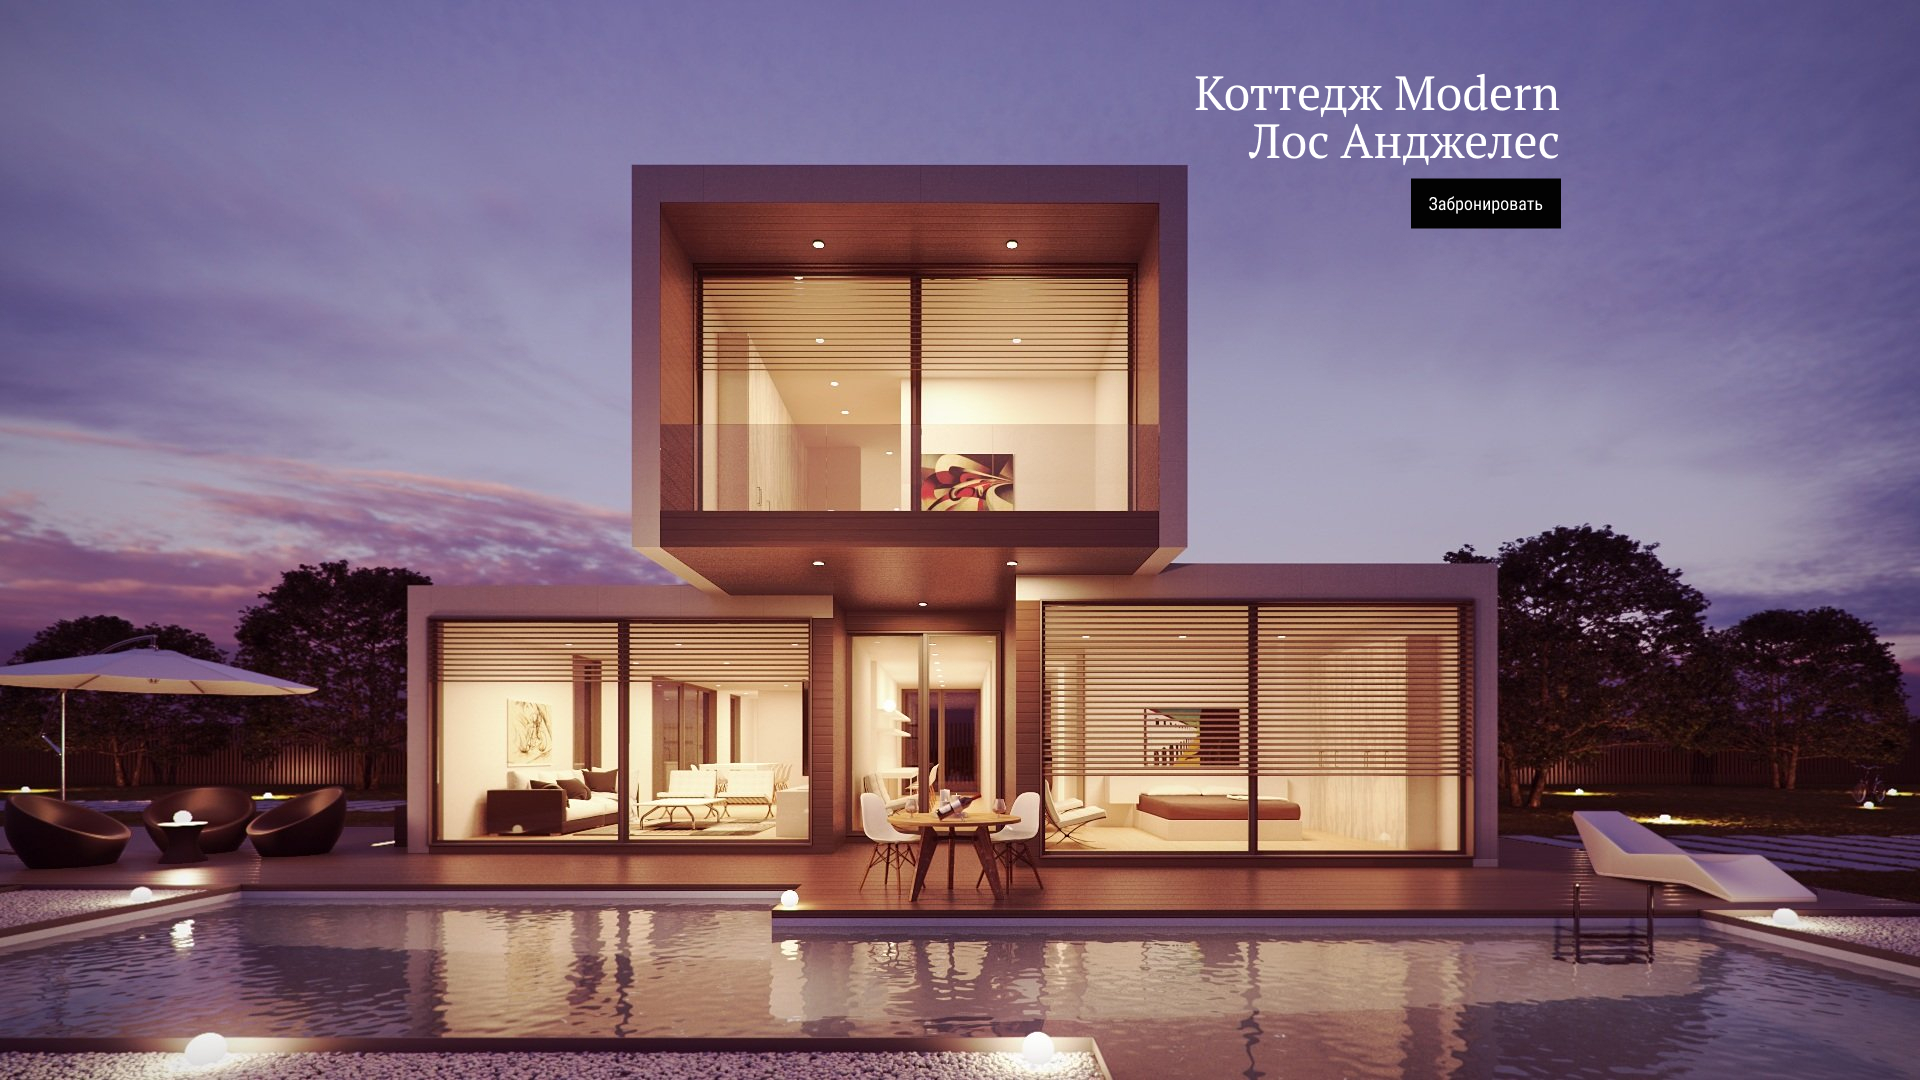
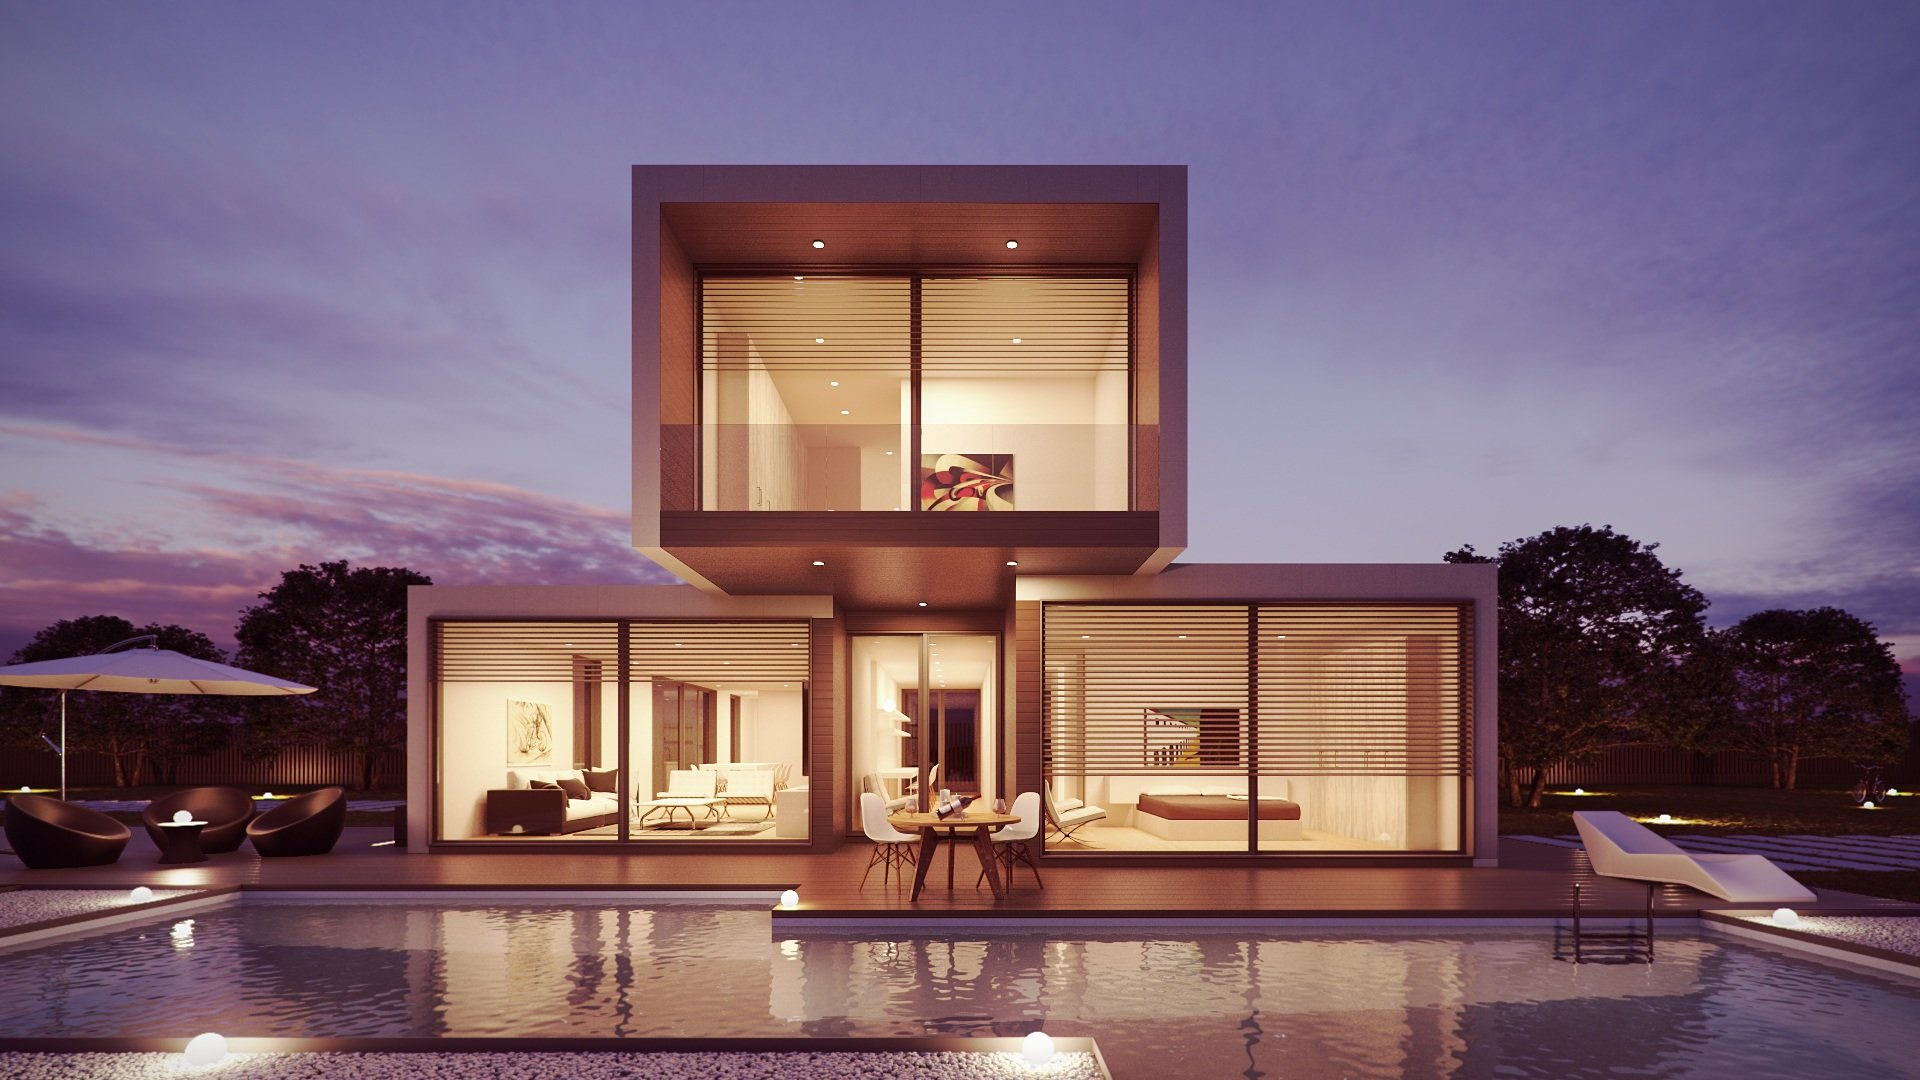
reservation

Changed region(s): [[0.625, 0.0611, 0.8125, 0.2139]]

diff --git a/css/styile.css b/css/styile.css
@@ -279,12 +279,34 @@
             background-size: cover;
         }
         
-        .reservation {}
-        
-        .reservation__img {
-            background-image: url(../images/reservation-bd.jpg);
+        .reservation {
+            background-size: cover;
+            background-repeat: no-repeat;
+            background-position: center;
+            min-height: 100vh;
+            text-align: right;
         }
         
-        .reservation__title {}
+        .reservation__title {
+            max-width: 462px;
+            margin: 0 0 15px auto;
+            padding-top: 68px;
+            margin-bottom: 16px;
+            font-family: 'PT Serif', serif;
+            font-weight: 400;
+            font-size: 48px;
+            line-height: 48px;
+            color: #fff;
+        }
         
-        .reservation__btn {}
+        .reservation__btn {
+            color: #fff;
+            background-color: #000;
+            padding: 18px 18px;
+            display: inline-block;
+            transition: all .5s;
+        }
+        
+        .reservation__btn:hover {
+            background-color: rgb(65, 59, 59);
+        }

diff --git a/index.html b/index.html
@@ -106,10 +106,14 @@
             </div>
         </div>
     </section>
-    <section class="reservation">
-        <div class="reservation__img"></div>
-        <div class="reservation__title"></div>
-        <a href="" class="reservation__btn"></a>
+    <section class="reservation" style="background-image: url(images/reservation-bd.jpg);">
+        <div class="container">
+            <h3 class="reservation__title">
+                Коттедж Modern<br>Лос Анджелес
+            </h3>
+            <a href="#" class="reservation__btn">Забронировать</a>
+        </div>
+
     </section>
 
 
